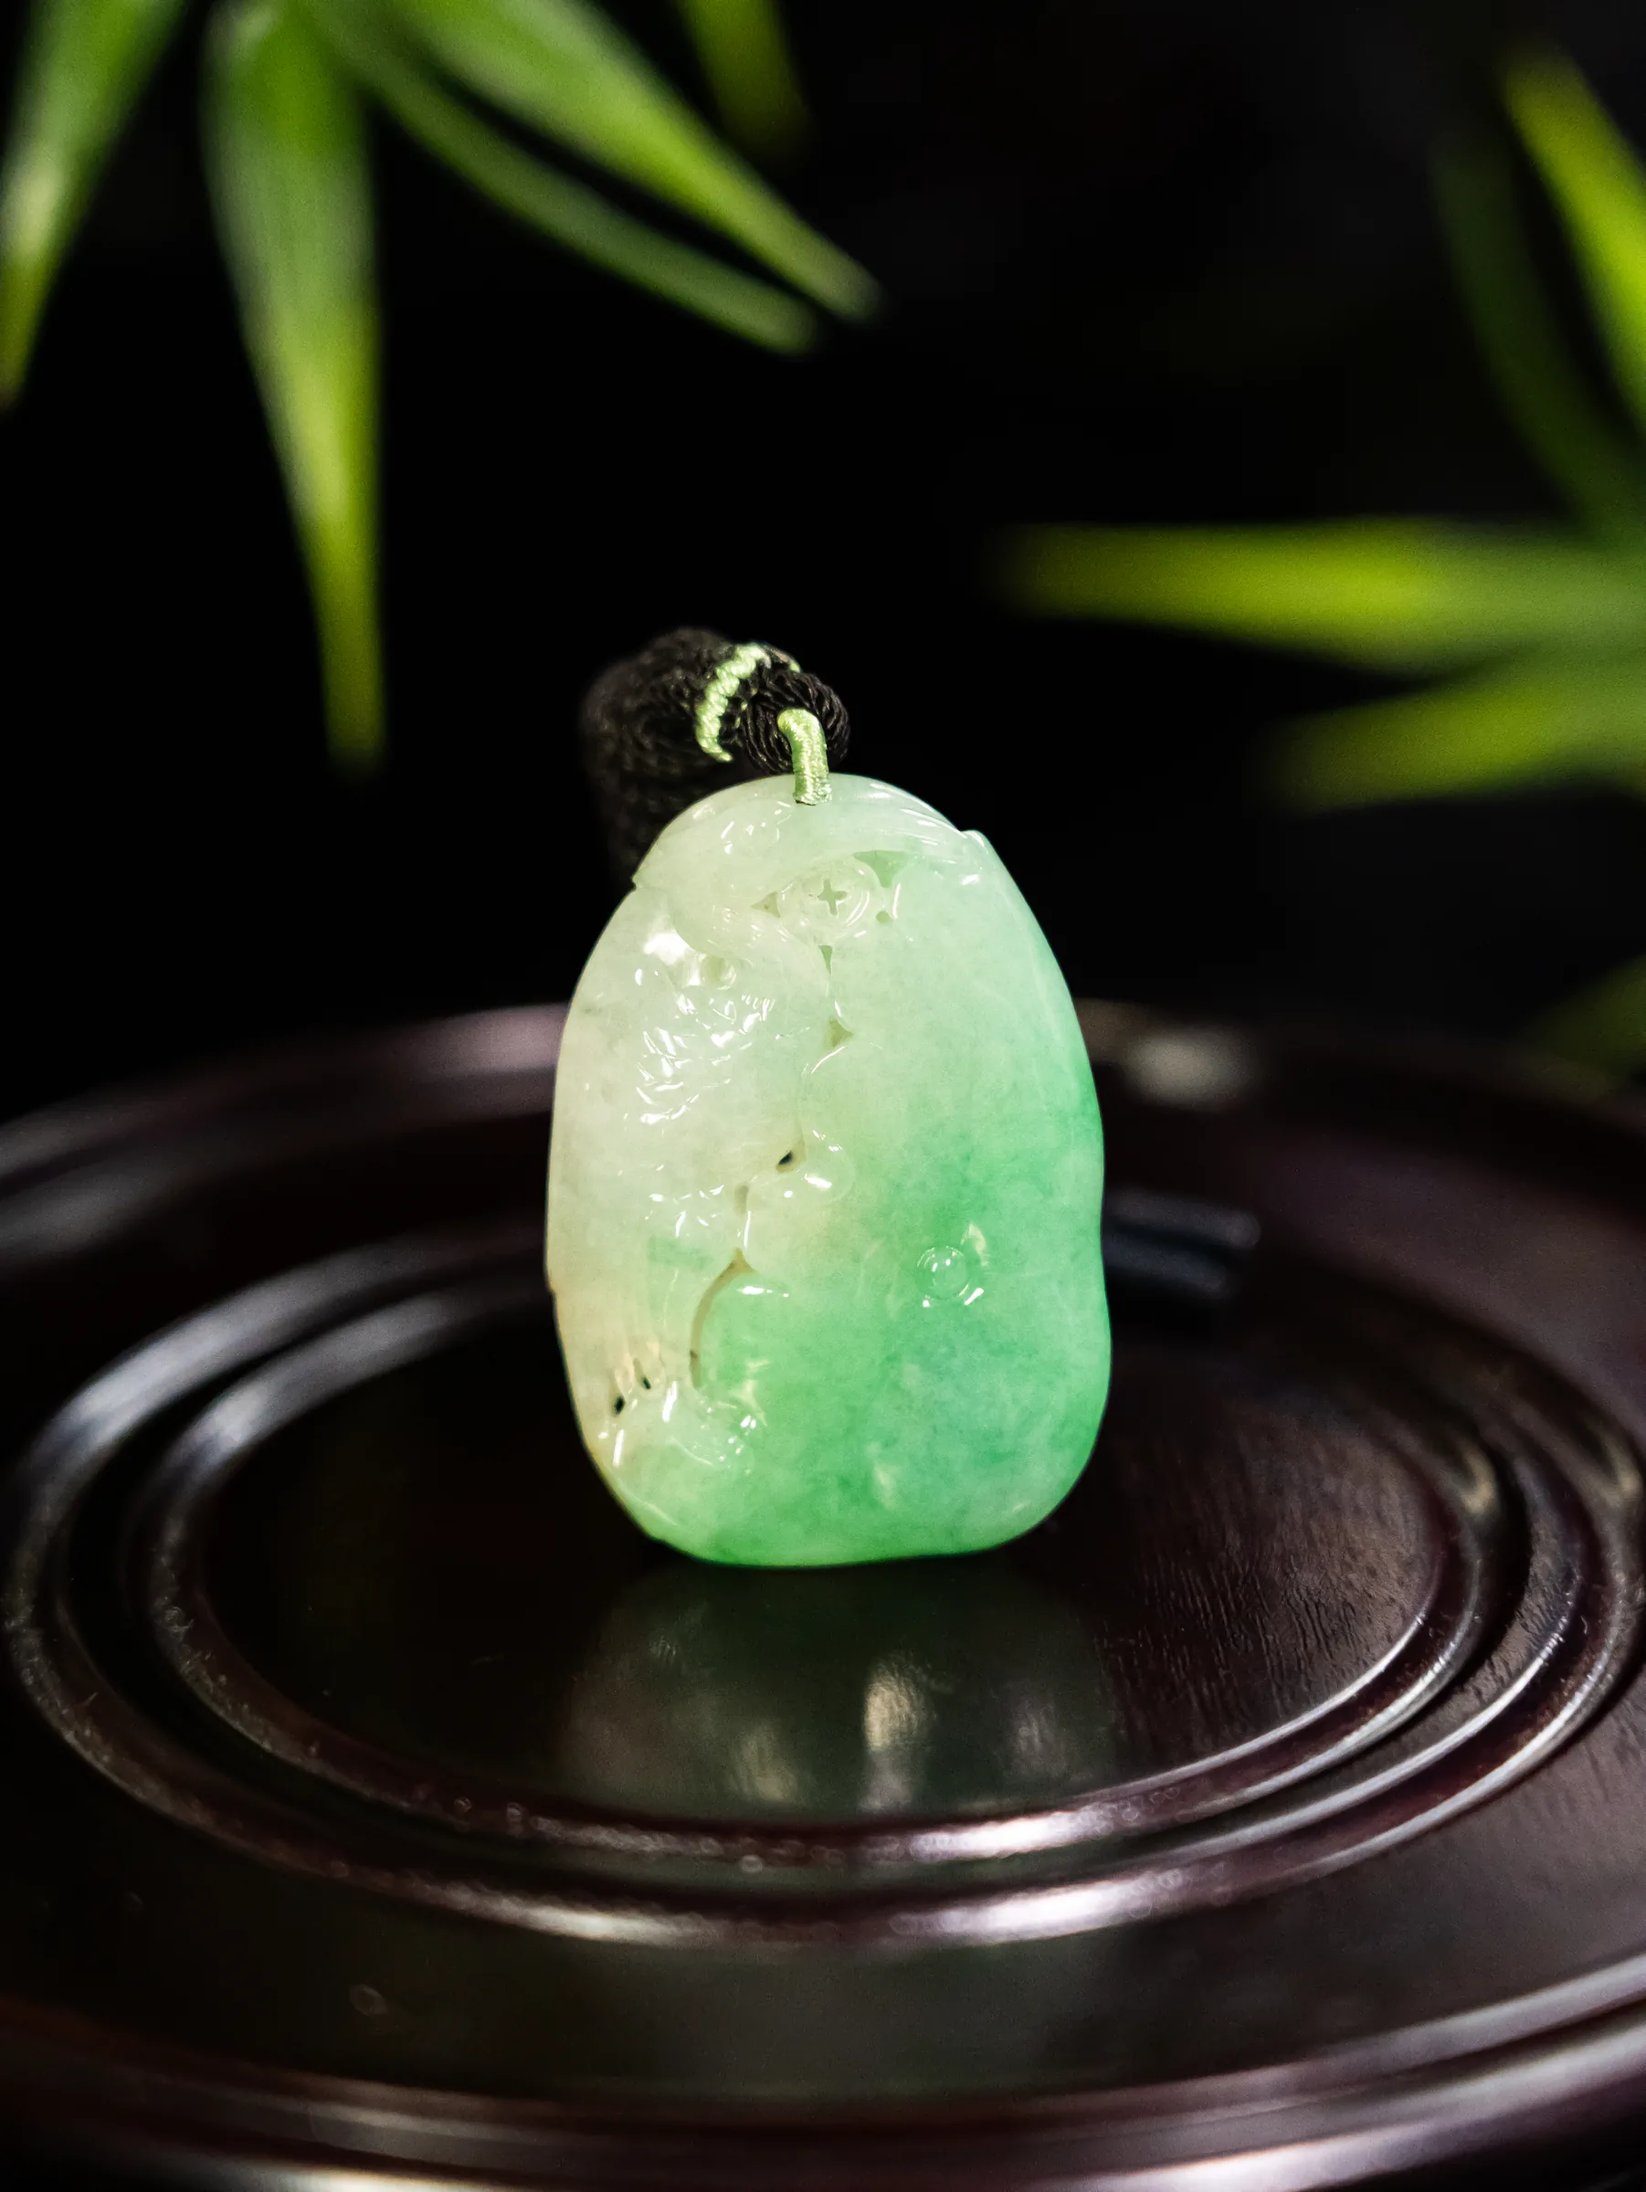
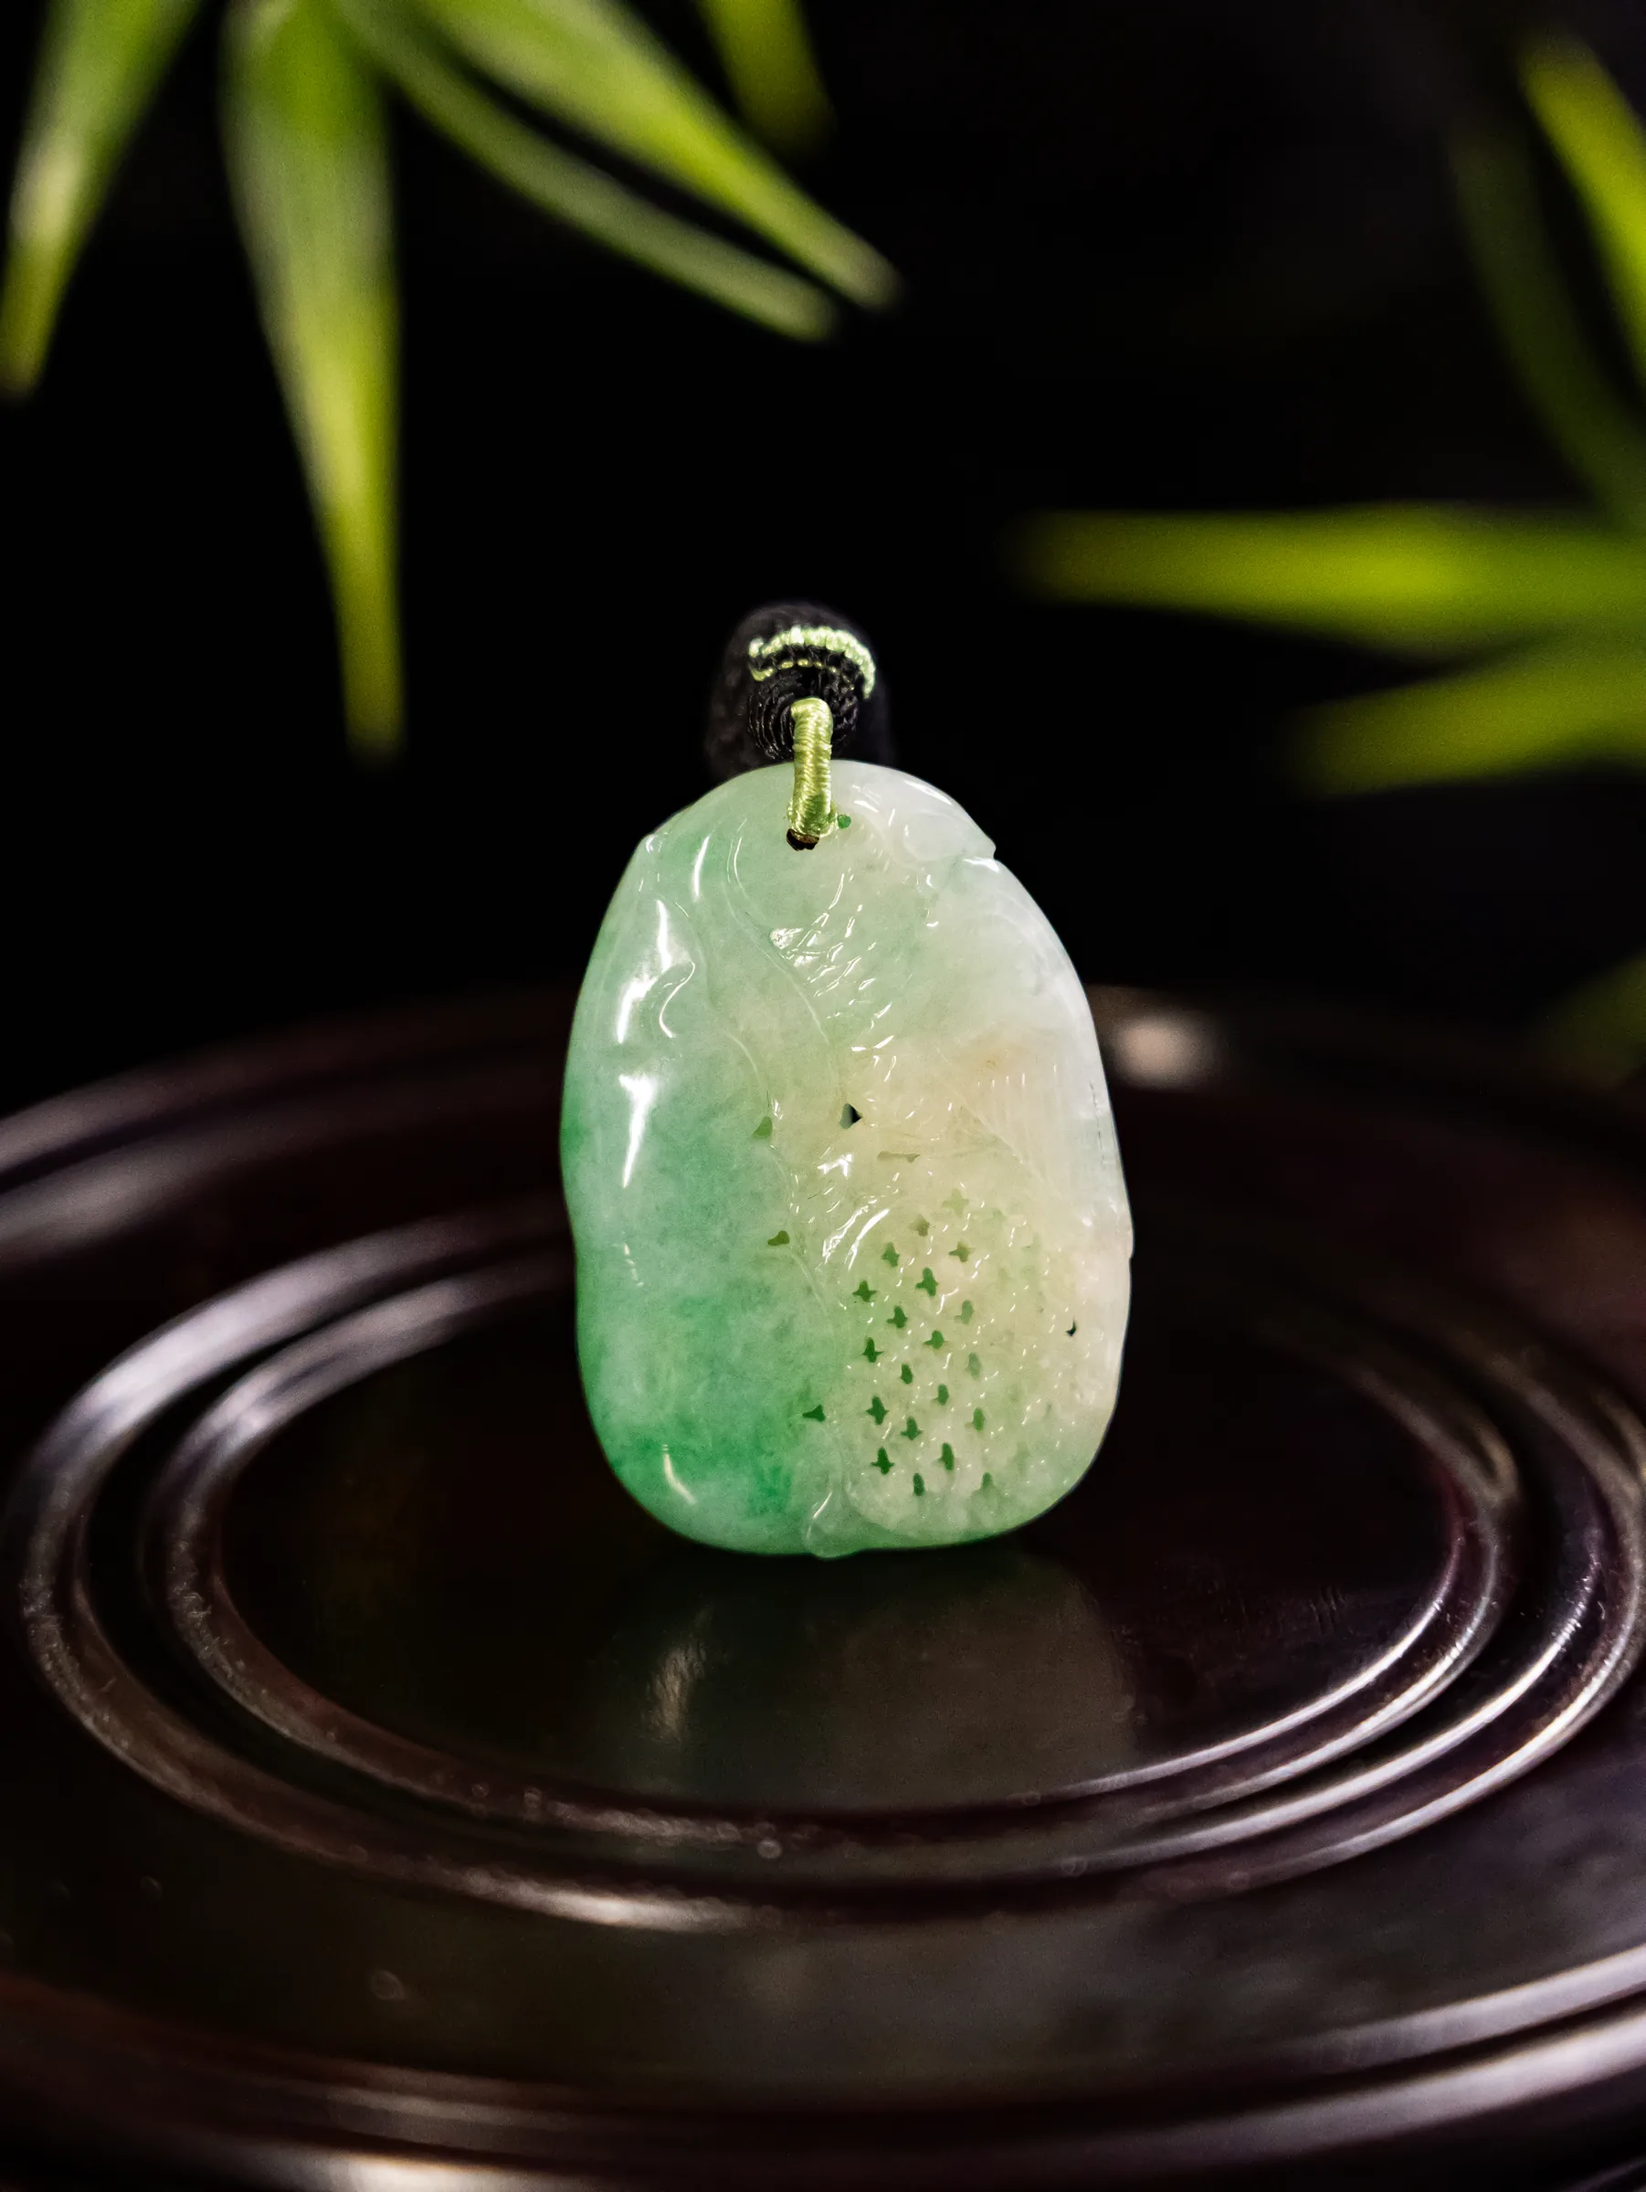
Add lavender Guanyin and correct jade catalog details

diff --git a/assets/language-switcher.js b/assets/language-switcher.js
@@ -151,11 +151,11 @@
     "深翠色鏤空龍紋層次鮮明，雕工立體細緻，氣勢生動，適合佩戴或收藏。": "This deep green openwork dragon plaque features vivid depth and finely sculpted detail, suitable for wearing or collecting.",
     "緬甸A玉古谷紋五谷豐登龍": "Burmese Type A Ancient Grain-Pattern Harvest Dragon Jade Plaque",
     "五谷豐登龍": "Abundant Harvest Dragon",
-    "黃翡圓牌配白玉龍紋，古谷紋與五谷豐登題材寓意豐足吉祥，尺寸約 52.5 x 13.4mm。": "A yellow jade round plaque with pale jade dragon carving and ancient grain motifs symbolising an abundant, auspicious harvest. Approx. 52.5 x 13.4mm.",
-    "黃翡圓牌配白玉龍紋，古谷紋與五谷豐登題材寓意豐足吉祥，適合佩戴或收藏。": "This yellow jade round plaque features a pale jade dragon carving and ancient grain motifs symbolising an abundant, auspicious harvest, suitable for wearing or collecting.",
+    "黃翡圓牌巧色龍，古谷紋與五谷豐登題材寓意豐足吉祥，尺寸約 52.5 x 13.4mm。": "A yellow jade round plaque with a cleverly coloured dragon carving and ancient grain motifs symbolising an abundant, auspicious harvest. Approx. 52.5 x 13.4mm.",
+    "黃翡圓牌巧色龍，古谷紋與五谷豐登題材寓意豐足吉祥，適合佩戴或收藏。": "This yellow jade round plaque features a cleverly coloured dragon carving and ancient grain motifs symbolising an abundant, auspicious harvest, suitable for wearing or collecting.",
     "龍牌": "Dragon Plaque",
-    "白玉飄翠，橢圓龍牌配鏤空雕刻，龍紋層次清晰，尺寸約 49.9 x 39.1 x 7.5mm。": "A pale jade oval plaque with green accents and a clearly layered openwork dragon carving. Approx. 49.9 x 39.1 x 7.5mm.",
-    "白玉飄翠，橢圓龍牌配鏤空雕刻，龍紋層次清晰，適合佩戴或收藏。": "This pale jade oval plaque features green accents and a clearly layered openwork dragon carving, suitable for wearing or collecting.",
+    "白玉飄翠，橢圓龍牌龍紋層次清晰，尺寸約 49.9 x 39.1 x 7.5mm。": "A pale jade oval plaque with green accents and a clearly layered dragon carving. Approx. 49.9 x 39.1 x 7.5mm.",
+    "白玉飄翠，橢圓龍牌龍紋層次清晰，適合佩戴或收藏。": "This pale jade oval plaque features green accents and a clearly layered dragon carving, suitable for wearing or collecting.",
     "緬甸A玉福祿壽三色龍頭魚": "Burmese Type A Three-Colour Dragon-Head Fish Jade Plaque",
     "龍頭魚": "Dragon-Head Fish",
     "福祿壽三色相映，龍頭魚題材雕工立體，色澤層次豐富，尺寸約 61.1 x 37.7 x 11.1mm。": "A richly layered three-colour jade plaque with a dimensional dragon-head fish carving. Approx. 61.1 x 37.7 x 11.1mm.",
@@ -179,6 +179,7 @@
     "緬甸A玉紫羅蘭觀音": "Burmese Type A Lavender Jade Guanyin",
     "紫羅蘭觀音": "Lavender Guanyin",
     "紫羅蘭色澤柔和，觀音雕像端莊，寓意慈悲護佑，尺寸約 57.8 x 39.8 x 11mm。": "Soft lavender-toned Guanyin carving with a serene presence, symbolising compassion and protection. Approx. 57.8 x 39.8 x 11mm.",
+    "紫羅蘭色澤柔和，觀音雕像端莊，尺寸 54.6 x 30.4 x 6.2mm。": "Soft lavender-toned Guanyin carving with a serene presence. 54.6 x 30.4 x 6.2mm.",
     "紫羅蘭色澤柔和，觀音雕像端莊，寓意慈悲護佑，適合佩戴或收藏。": "This soft lavender-toned Guanyin carving has a serene presence and symbolises compassion and protection, suitable for wearing or collecting.",
     "緬甸A玉九五至尊龍": "Burmese Type A Jade Nine-Five Supreme Dragon Plaque",
     "九五至尊龍": "Nine-Five Supreme Dragon",

diff --git a/product-detail.html b/product-detail.html
@@ -425,7 +425,7 @@
       "jade-dragon-plaque-8500": {
         name: "緬甸A玉龍牌",
         price: "HK$ 8,500 | 請查詢",
-        intro: "白玉飄翠，橢圓龍牌配鏤空雕刻，龍紋層次清晰，適合佩戴或收藏。",
+        intro: "白玉飄翠，橢圓龍牌龍紋層次清晰，適合佩戴或收藏。",
         images: [
           { src: "assets/jade-dragon-plaque-8500-front.webp", alt: "緬甸A玉龍牌 49.9mm 款正面", caption: "正面" },
           { src: "assets/jade-dragon-plaque-8500-back.webp", alt: "緬甸A玉龍牌 49.9mm 款背面", caption: "背面" }
@@ -438,7 +438,7 @@
       "jade-ancient-grain-harvest-dragon": {
         name: "緬甸A玉古谷紋五谷豐登龍",
         price: "HK$ 45,000 | 請查詢",
-        intro: "黃翡圓牌配白玉龍紋，古谷紋與五谷豐登題材寓意豐足吉祥，適合佩戴或收藏。",
+        intro: "黃翡圓牌巧色龍，古谷紋與五谷豐登題材寓意豐足吉祥，適合佩戴或收藏。",
         images: [
           { src: "assets/jade-ancient-grain-harvest-dragon-front.webp", alt: "緬甸A玉古谷紋五谷豐登龍正面", caption: "正面" },
           { src: "assets/jade-ancient-grain-harvest-dragon-back.webp", alt: "緬甸A玉古谷紋五谷豐登龍背面", caption: "背面" }
@@ -666,6 +666,20 @@
         ],
         tags: ["緬甸A玉", "紫羅蘭", "觀音"],
         details: [["價錢", "HK$ 2,800 | 請查詢"], ["尺寸", "約 57.8 x 39.8 x 11mm"], ["類別", "觀音玉器"], ["查詢", "WhatsApp 6803 6381"]],
+        backHref: "jade-buddha-guanyin.html#products",
+        backText: "返回觀音"
+      },
+      "jade-lavender-guanyin-4800": {
+        name: "緬甸A玉紫羅蘭觀音",
+        enquiryLabel: "緬甸A玉紫羅蘭觀音（54.6 x 30.4 x 6.2mm，HK$ 4,800）",
+        price: "HK$ 4,800 | 請查詢",
+        intro: "紫羅蘭色澤柔和，觀音雕像端莊，寓意慈悲護佑，適合佩戴或收藏。",
+        images: [
+          { src: "assets/jade-lavender-guanyin-4800-front.webp", alt: "緬甸A玉紫羅蘭觀音正面", caption: "正面" },
+          { src: "assets/jade-lavender-guanyin-4800-back.webp", alt: "緬甸A玉紫羅蘭觀音背面", caption: "背面" }
+        ],
+        tags: ["緬甸A玉", "紫羅蘭", "觀音"],
+        details: [["價錢", "HK$ 4,800 | 請查詢"], ["尺寸", "54.6 x 30.4 x 6.2mm"], ["類別", "觀音玉器"], ["查詢", "WhatsApp 6803 6381"]],
         backHref: "jade-buddha-guanyin.html#products",
         backText: "返回觀音"
       },
@@ -1045,7 +1059,7 @@
       `).join("");
 
       const tags = product.tags.map((tag) => `<span>${escapeHtml(tag)}</span>`).join("");
-      const message = `你好！我想查詢「${product.name}」的現貨、尺寸和價錢。`;
+      const message = `你好！我想查詢「${product.enquiryLabel || product.name}」的現貨、尺寸和價錢。`;
 
       document.title = `${product.name} | Jenny's Art House 玲瓏藝舍`;
       document.querySelector("meta[name='description']").content = `${product.name}，Jenny's Art House 玲瓏藝舍商品詳情、相片、尺寸、價錢及 WhatsApp 查詢。`;

diff --git a/jade-pendants.html b/jade-pendants.html
@@ -485,7 +485,7 @@
           <div class="product-body">
             <h3 class="product-title">緬甸A玉龍牌</h3>
             <p class="price">HK$ 8,500 | 請查詢</p>
-            <p class="desc">白玉飄翠，橢圓龍牌配鏤空雕刻，龍紋層次清晰，尺寸約 49.9 x 39.1 x 7.5mm。</p>
+            <p class="desc">白玉飄翠，橢圓龍牌龍紋層次清晰，尺寸約 49.9 x 39.1 x 7.5mm。</p>
             <div class="meta"><span>緬甸A玉</span><span>雕刻玉牌</span></div>
             <div class="product-actions"><a class="whatsapp js-whatsapp" href="#" data-message="你好！我想查詢「緬甸A玉龍牌」49.9 x 39.1 x 7.5mm 款的現貨和價錢。">WhatsApp 查詢</a></div>
           </div>
@@ -499,7 +499,7 @@
           <div class="product-body">
             <h3 class="product-title">緬甸A玉古谷紋五谷豐登龍</h3>
             <p class="price">HK$ 45,000 | 請查詢</p>
-            <p class="desc">黃翡圓牌配白玉龍紋，古谷紋與五谷豐登題材寓意豐足吉祥，尺寸約 52.5 x 13.4mm。</p>
+            <p class="desc">黃翡圓牌巧色龍，古谷紋與五谷豐登題材寓意豐足吉祥，尺寸約 52.5 x 13.4mm。</p>
             <div class="meta"><span>緬甸A玉</span><span>雕刻玉牌</span></div>
             <div class="product-actions"><a class="whatsapp js-whatsapp" href="#" data-message="你好！我想查詢「緬甸A玉古谷紋五谷豐登龍」52.5 x 13.4mm 款的現貨和價錢。">WhatsApp 查詢</a></div>
           </div>

diff --git a/jade-buddha-guanyin.html b/jade-buddha-guanyin.html
@@ -457,6 +457,20 @@
         </article>
 
         <article class="product">
+          <a class="product-image" href="product-detail.html?id=jade-lavender-guanyin-4800" aria-label="查看緬甸A玉紫羅蘭觀音（54.6 x 30.4 x 6.2mm）詳情">
+            <img src="assets/jade-lavender-guanyin-4800-front.webp" alt="緬甸A玉紫羅蘭觀音正面" loading="lazy">
+            <span class="badge">紫羅蘭觀音</span>
+          </a>
+          <div class="product-body">
+            <h3 class="product-title">緬甸A玉紫羅蘭觀音</h3>
+            <p class="price">HK$ 4,800 | 請查詢</p>
+            <p class="desc">紫羅蘭色澤柔和，觀音雕像端莊，尺寸 54.6 x 30.4 x 6.2mm。</p>
+            <div class="meta"><span>緬甸A玉</span><span>觀音</span></div>
+            <div class="product-actions"><a class="whatsapp js-whatsapp" href="#" data-message="你好！我想查詢「緬甸A玉紫羅蘭觀音」（54.6 x 30.4 x 6.2mm，HK$ 4,800）的現貨。">WhatsApp 查詢</a></div>
+          </div>
+        </article>
+
+        <article class="product">
           <a class="product-image" href="product-detail.html?id=jade-guanyin-round-pendant" aria-label="查看圓形觀音翡翠玉牌詳情">
             <img src="assets/pendant-guanyin-round-front.webp" alt="圓形觀音翡翠玉牌正面" loading="lazy">
             <span class="badge">觀音題材</span>
